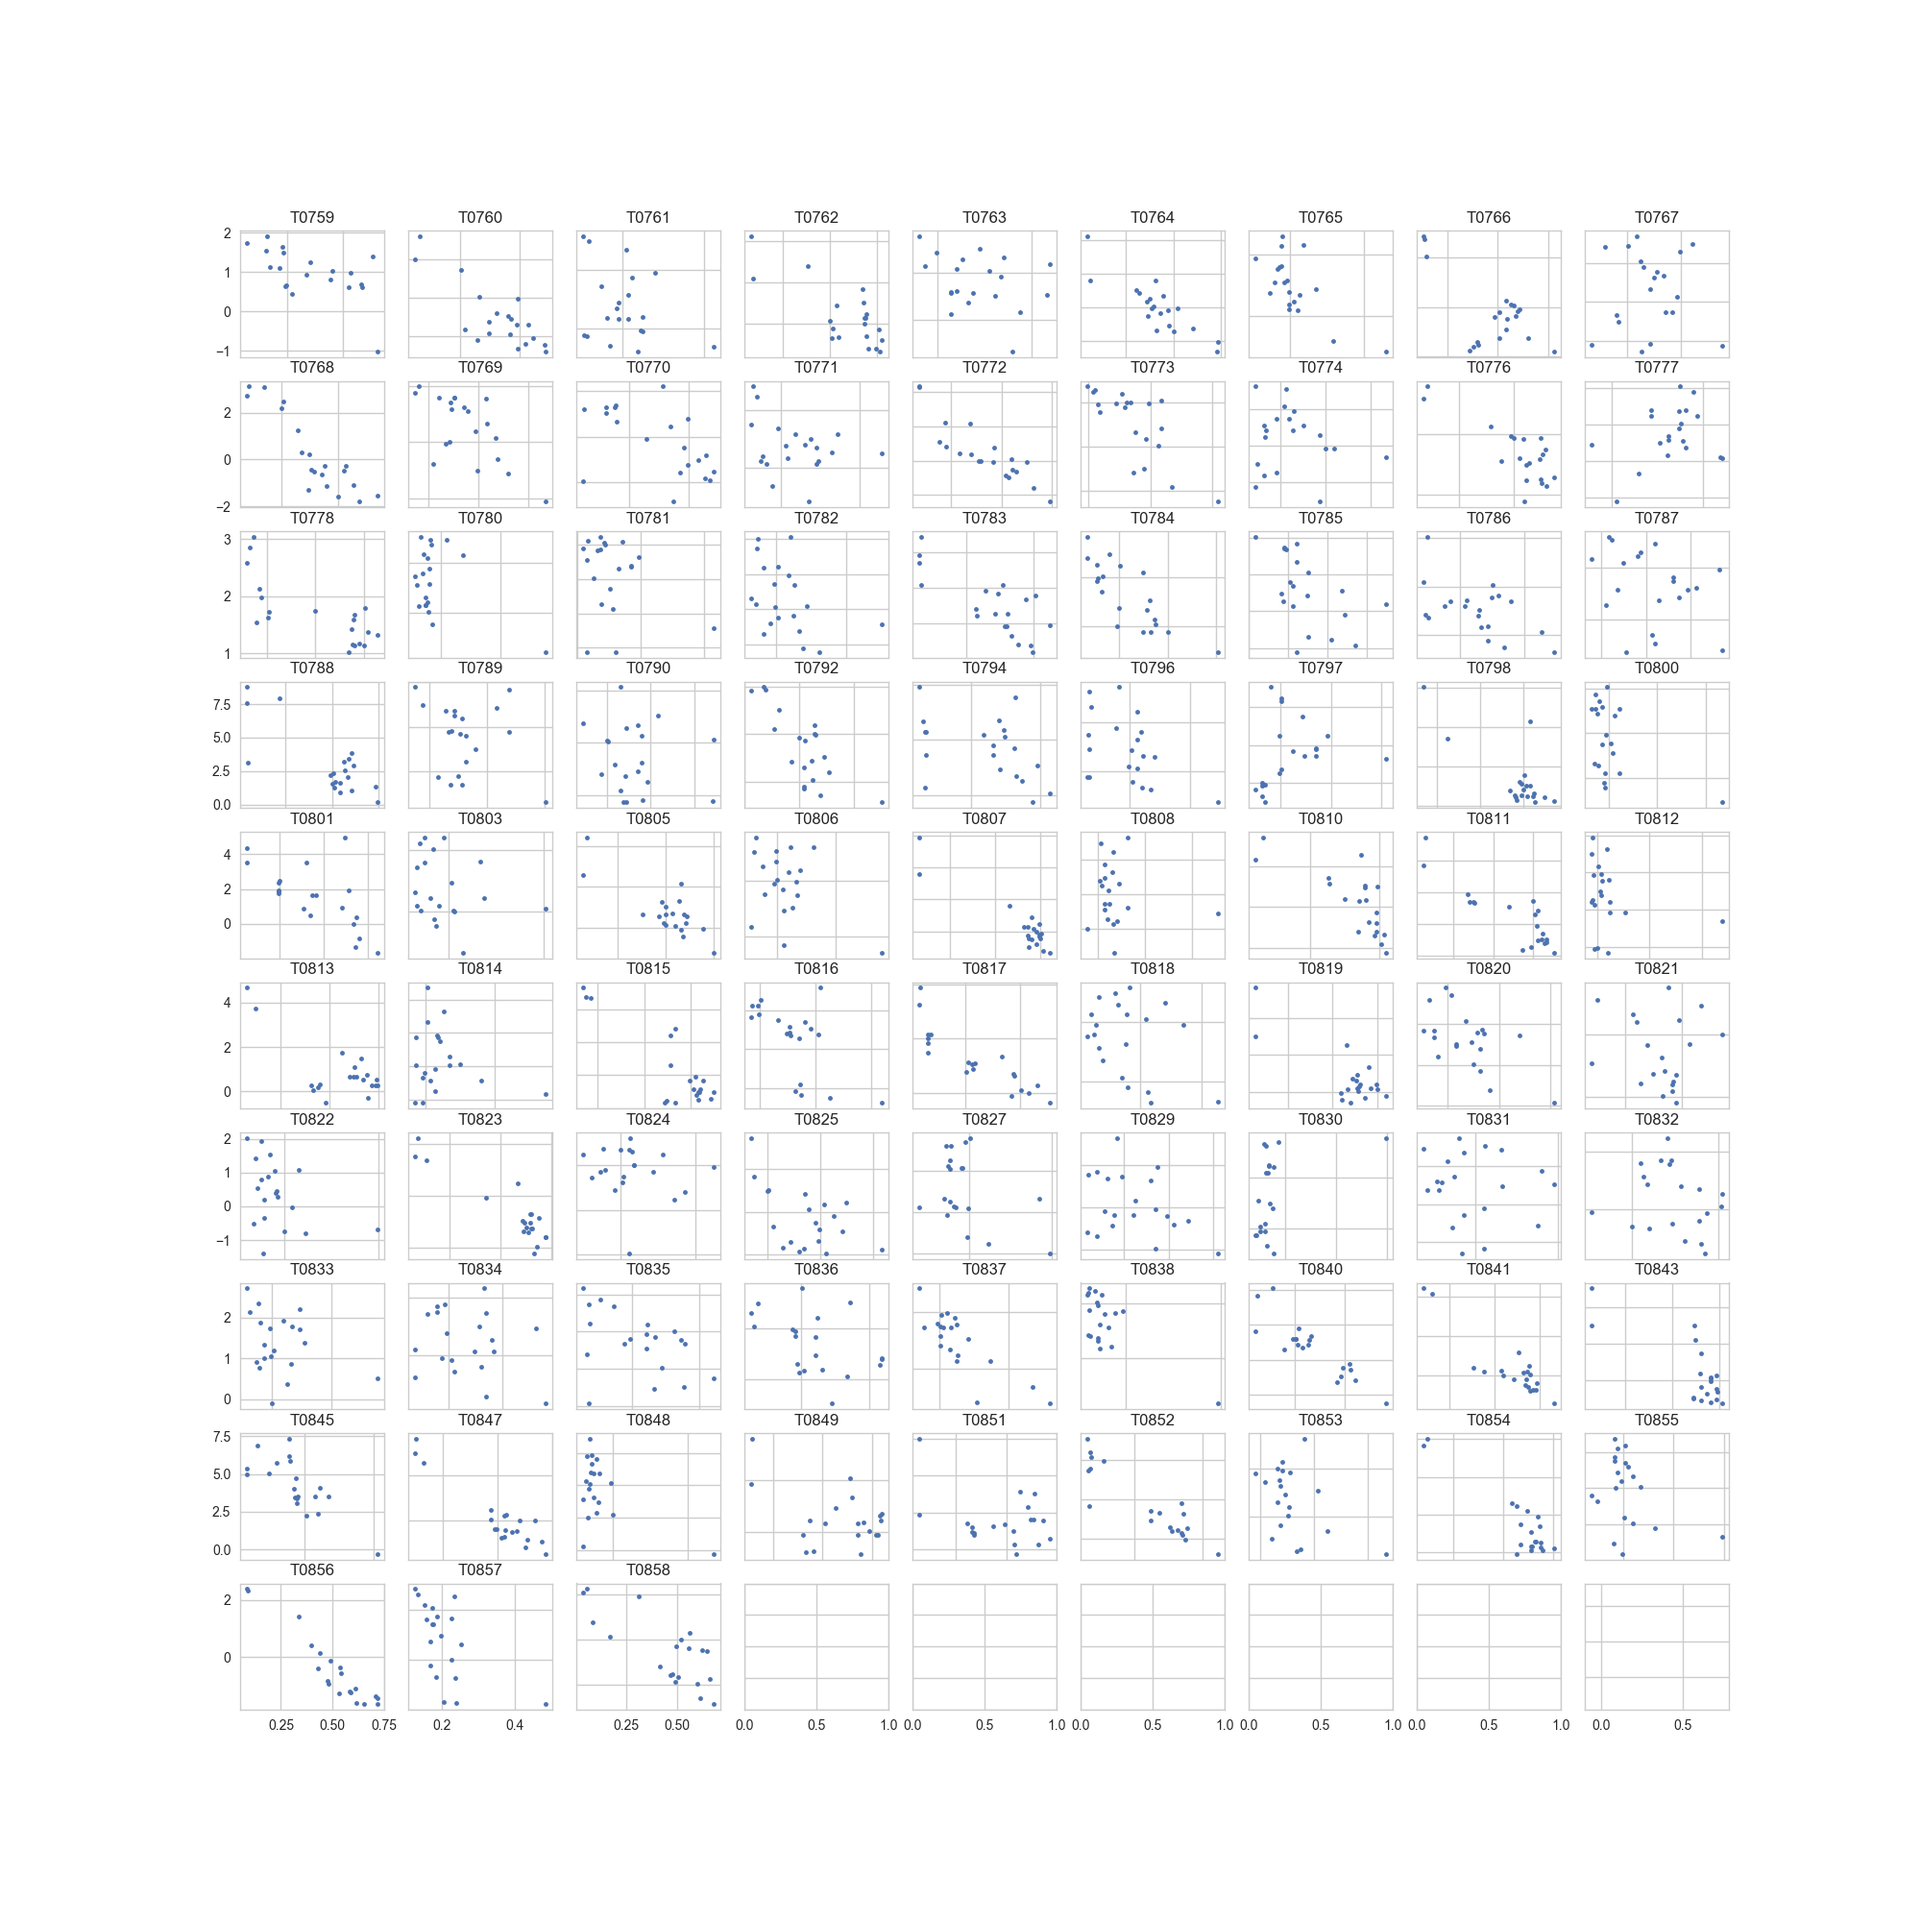
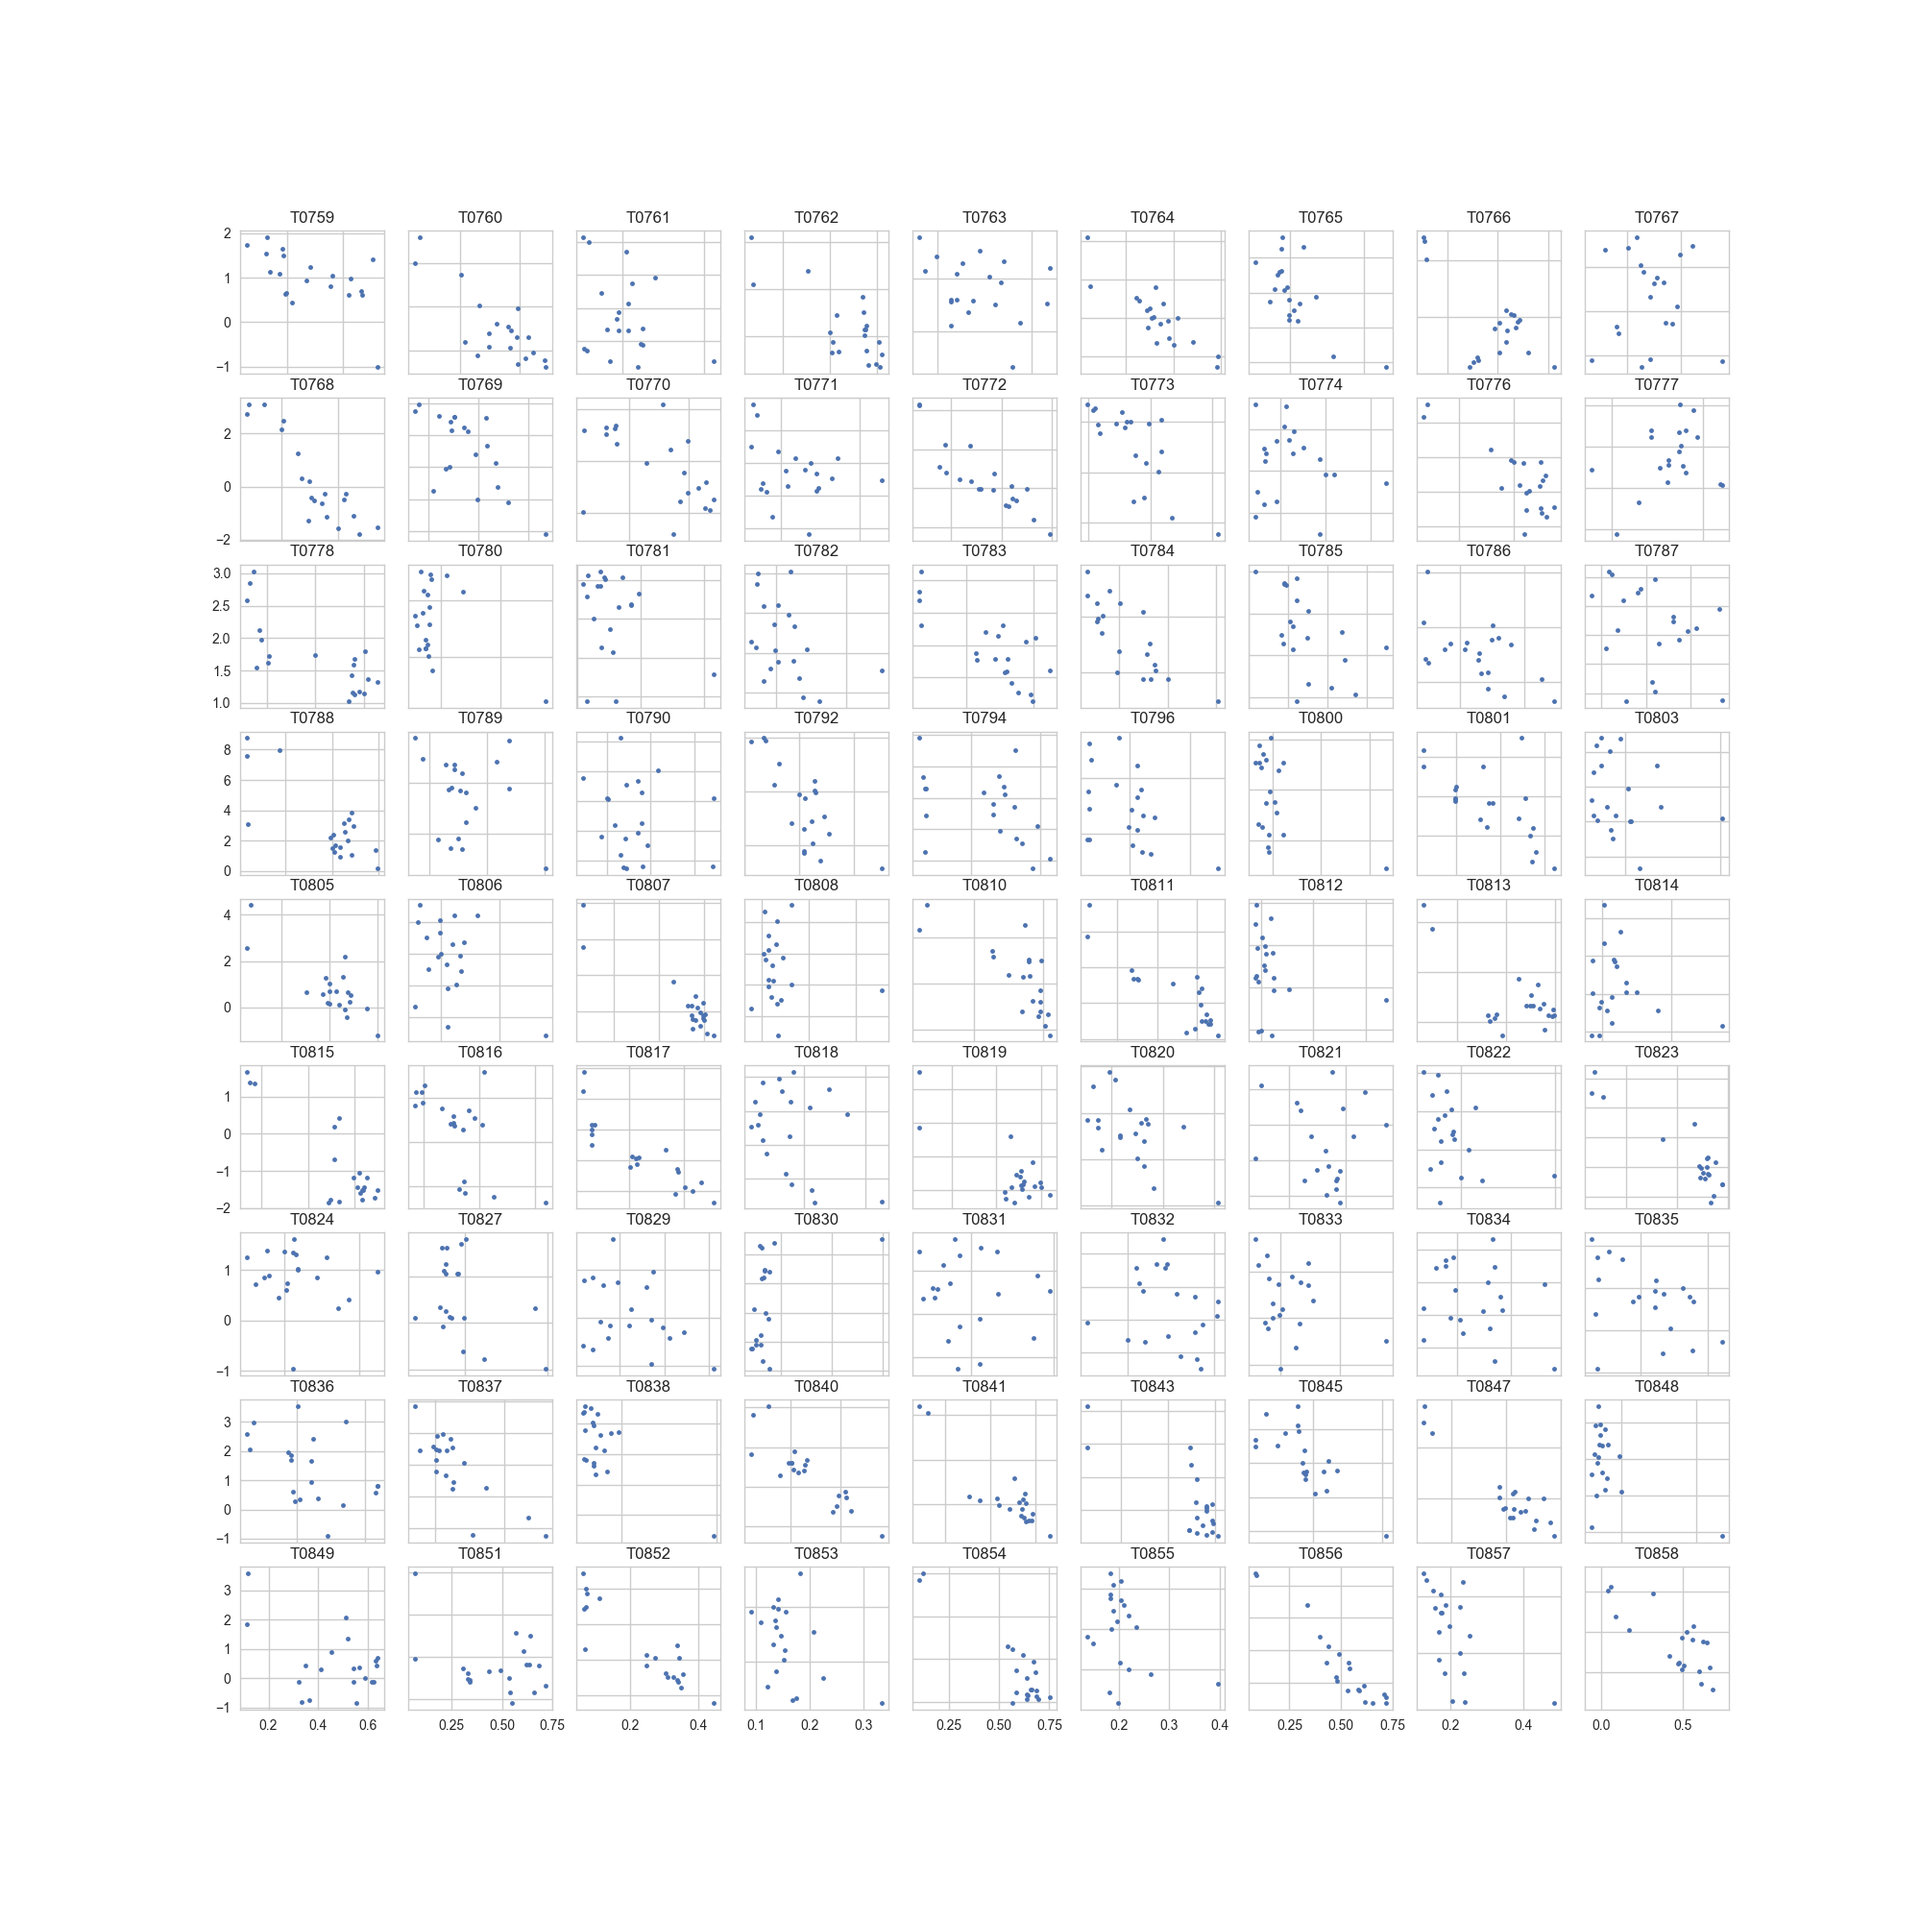
SI plots update

diff --git a/scripts/Figures/plotTestResults.py b/scripts/Figures/plotTestResults.py
@@ -185,7 +185,7 @@ def plot_test_results(	experiment_name = 'QA',
 	"""
 	print "Test dataset: ", test_dataset_name
 
-	proteins, decoys = read_dataset_description('/media/lupoglaz/ProteinsDataset/%s/Description'%test_dataset_name,
+	proteins, decoys = read_dataset_description('/home/lupoglaz/ProteinsDataset/%s/Description'%test_dataset_name,
 												test_dataset_subset, decoy_ranging=decoy_ranging_column)
 	if (not model_name is None) and (not trainig_dataset_name is None):
 		input_path = '../../models/%s_%s_%s/%s/epoch_0.dat'%(	experiment_name, model_name, trainig_dataset_name,
@@ -194,14 +194,14 @@ def plot_test_results(	experiment_name = 'QA',
 		input_path = '../../models/%s/%s/epoch_0.dat'%(	experiment_name, test_dataset_name+suffix)
 
 	loss_function_values, decoys_scores = read_epoch_output(input_path)
-
+	print 'Num targets = ', len(proteins)
 	included_proteins = []
 	for protein in proteins:
 		if protein in ['T0797','T0798','T0825']:
 			print 'Excluded CAPRI target', protein
 			continue
 		included_proteins.append(protein)
-
+	print 'Num included targets = ', len(included_proteins)
 
 	correlations = get_correlations(included_proteins, decoys, decoys_scores, subset)
 	print 'Correlations:'
@@ -228,7 +228,7 @@ def plot_test_results(	experiment_name = 'QA',
 		selected_proteins = best+worst
 		plotFunnelsSpecial(selected_proteins, correlations_all, decoys, decoys_scores, output_path)
 	else:
-		plotFunnels(proteins, decoys, decoys_scores, output_path)
+		plotFunnels(included_proteins, decoys, decoys_scores, output_path)
 
 def get_uniformly_dist_decoys(	experiment_name = 'QA_uniform',
 								model_name = 'ranking_model_8',
@@ -376,29 +376,29 @@ def plot_test_outliers(	experiment_name = 'QA',
 	
 	
 if __name__=='__main__':
-	testResults = False
+	testResults = True
 	inspect_monomers = False
-	lossVsEcod = True
+	lossVsEcod = False
 	getOutliers = False
 	uniformDecoys = False
 	if testResults:
-		plot_test_results(	experiment_name = 'QA_uniform',
-							model_name = 'ranking_model_8',
-							trainig_dataset_name = 'CASP_SCWRL',
-							test_dataset_name = '3DRobot_set',
-							# test_dataset_name = 'CASP_SCWRL',
-							test_dataset_subset = 'datasetDescription.dat',
-							decoy_ranging_column = 'gdt-ts',
-							suffix = '_sFinal', best_worst=True)
-
 		# plot_test_results(	experiment_name = 'QA_uniform',
 		# 					model_name = 'ranking_model_8',
 		# 					trainig_dataset_name = 'CASP_SCWRL',
-		# 					test_dataset_name = 'CASP11Stage2_SCWRL',
+		# 					test_dataset_name = '3DRobot_set',
 		# 					# test_dataset_name = 'CASP_SCWRL',
 		# 					test_dataset_subset = 'datasetDescription.dat',
 		# 					decoy_ranging_column = 'gdt-ts',
-		# 					suffix = '_sFinal')
+		# 					suffix = '_sFinal', best_worst=True)
+
+		plot_test_results(	experiment_name = 'QA_uniform',
+							model_name = 'ranking_model_8',
+							trainig_dataset_name = 'CASP_SCWRL',
+							test_dataset_name = 'CASP11Stage1_SCWRL',
+							# test_dataset_name = 'CASP_SCWRL',
+							test_dataset_subset = 'datasetDescription.dat',
+							decoy_ranging_column = 'gdt-ts',
+							suffix = '_sFinal')
 
 		# plot_test_results(	experiment_name = 'RWPlus',
 		# 					model_name = None,

diff --git a/scripts/Figures/plotTrainingProcess.py b/scripts/Figures/plotTrainingProcess.py
@@ -81,8 +81,13 @@ def plotFunnels(proteins, decoys, decoys_scores, outputFile):
 	fig = plt.figure(figsize=(20,20))
 
 	N = len(proteins)
-	nrows = int(np.sqrt(N))+1
-	ncols = int(N/nrows)
+	sqrt_n = int(np.sqrt(N))
+	if N==sqrt_n*sqrt_n:
+		nrows = int(np.sqrt(N))
+		ncols = int(N/nrows)	
+	else:
+		nrows = int(np.sqrt(N))+1
+		ncols = int(N/nrows)
 	if nrows*ncols<N: ncols+=1
 
 	from mpl_toolkits.axes_grid1 import Grid
